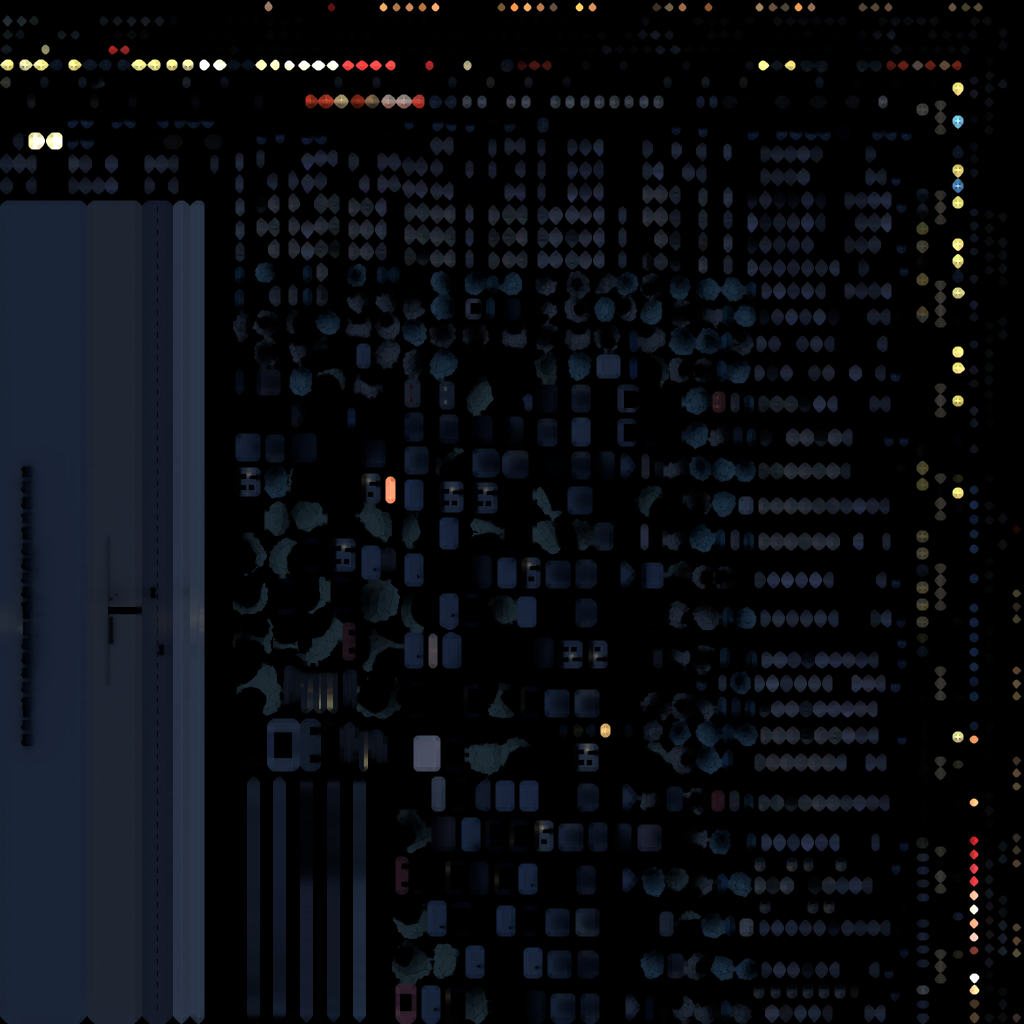
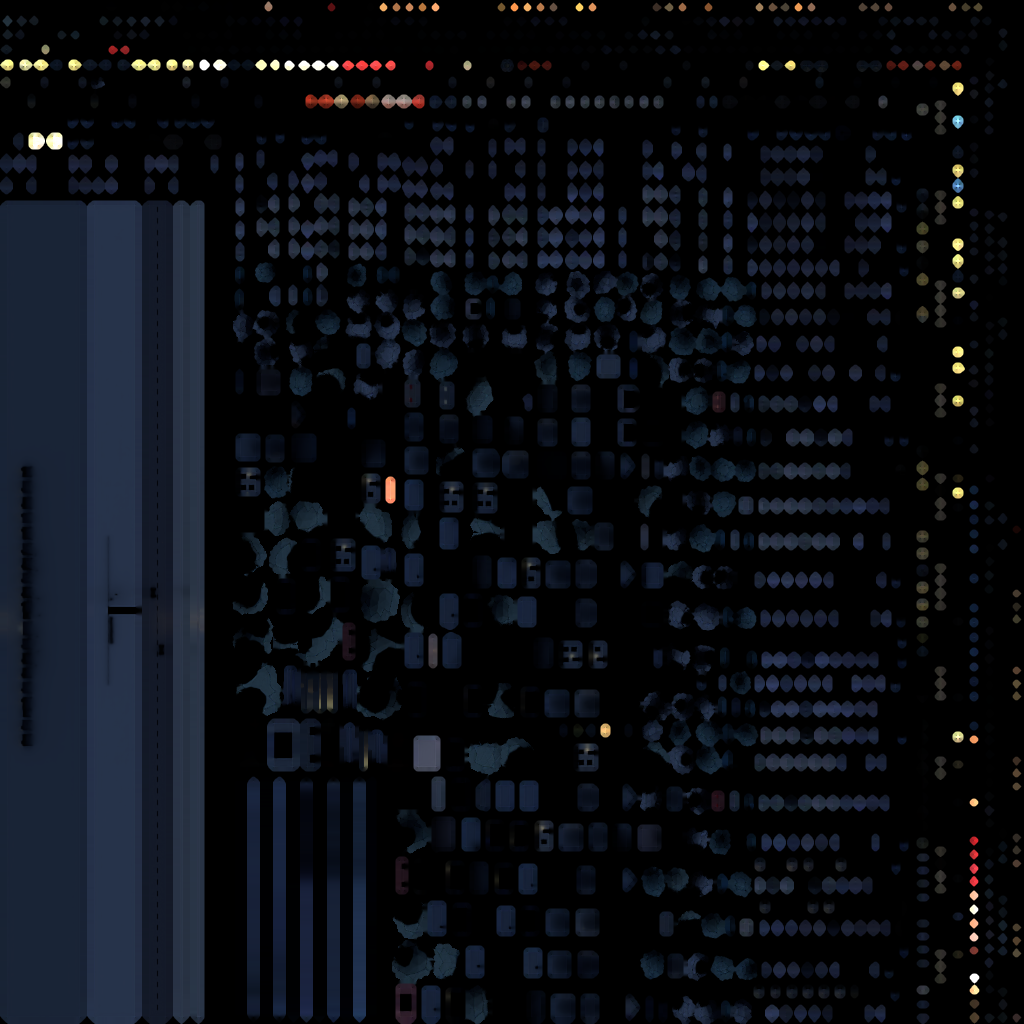
fix(view3d): a night sky behind the 3D street, and a lighter near layer
The portal draws black wherever the street has nothing, so the window read as near-black from
most poses. The street now carries its own sky: the flat views' night gradient on a wall just
behind the FLUX skyline, swung back at its ends for wide orbits, with stars. It lives in the cards
mesh and texture, so no draw or texture is added. The fence, hedge, tree and lawn are lifted
toward the far hills' colour, and our window's spill is stronger. The room's far plane goes to
500 to reach the sky. The preview renders on black with the app's far plane, so a gap shows.

Changed region(s): [[0.0625, 0.1875, 0.1562, 1.0], [0.2812, 0.9688, 0.3125, 1.0]]

diff --git a/packages/pet-scenes/reality/Tests/PetSceneRealityTests/Street3DTests.swift b/packages/pet-scenes/reality/Tests/PetSceneRealityTests/Street3DTests.swift
@@ -30,6 +30,25 @@ struct Street3DTests {
     #expect(lights == 0)
   }
 
+  @Test func theStreetHasASkyRightRoundWithinTheFarPlane() async throws {
+    let assets = try #require(await Street3D.assets())
+    // In the street's frame: x right, y up, minus z out through the window.
+    let sky = assets.cards.bounds
+    // It reaches well up and far out to either side, so any orbit looks into sky, not black.
+    #expect(sky.max.y >= 200)
+    #expect(sky.min.x <= -420 && sky.max.x >= 420)
+    #expect(sky.min.z <= -239)
+    // And what is seen of it up to a little above the horizon stays inside the room camera's far plane, with
+    // room for the camera standing back from the window.
+    let positions = assets.cards.contents.models.flatMap {
+      $0.parts.flatMap { $0.positions.elements }
+    }
+    let reach = positions.filter { $0.y <= 60 }.map {
+      simd_length(SIMD2($0.x, $0.z))
+    }
+    #expect(try #require(reach.max()) + 40 < GenzRoom.farClip)
+  }
+
   @Test func theStreetIsSeenStraightOnFromTheCameraAtHome() {
     let origin = SIMD3<Float>(3.8, 3.15, -0.35)
     let eye = SIMD3<Float>(10.2, 9.8, 19.2)

diff --git a/packages/pet-scenes/reality/Sources/PetSceneReality/Views/Street3D.swift b/packages/pet-scenes/reality/Sources/PetSceneReality/Views/Street3D.swift
@@ -7,8 +7,10 @@ import os
 /// that fills the window's opening, so it never shows past the walls.
 ///
 /// The street is made by `scripts/make_street_view.py`: one mesh of everything that stands still,
-/// one of a car, both on one baked atlas, and the far cards with the lamps' glows on a second
-/// texture. Everything is unlit, so it adds no real-time light: four draws with the portal.
+/// one of a car, both on one baked atlas, and the far cards with the lamps' glows, the stars and
+/// the night sky behind it all on a second texture. The portal draws nothing where the street has
+/// nothing, so the sky is the street's own. Everything is unlit, so it adds no real-time light:
+/// four draws with the portal.
 ///
 /// It is laid out in the view's own frame: x right, y up, and minus z out from the camera's home
 /// place through the window's middle, so at home it is seen straight on, as the flat views are,

diff --git a/packages/pet-scenes/reality/Sources/PetSceneReality/GenzRoom.swift b/packages/pet-scenes/reality/Sources/PetSceneReality/GenzRoom.swift
@@ -268,8 +268,9 @@ final class GenzRoom: CatPlayStage {
   /// at most about a hundred off in the opening at full zoom out, so a near plane this far out
   /// keeps the depth fine enough that the rug, shelves and note never shimmer against what they
   /// rest on. The default near plane of a centimetre left too little depth twenty units out.
+  /// The far plane reaches the 3D street's sky, some 450 units out through the window.
   static let nearClip: Float = 0.5
-  static let farClip: Float = 300
+  static let farClip: Float = 500
   private static let petLength = 4.0
   private static let parallaxPoints: CGFloat = 60
   private static let ambientExponent: Float = 1.6

diff --git a/packages/pet-scenes/reality/scripts/make_street_view.py b/packages/pet-scenes/reality/scripts/make_street_view.py
@@ -89,6 +89,11 @@ def mixed(a, b, share):
     return (c[0] << 16) | (c[1] << 8) | c[2]
 
 
+# The near layer (fence, hedge, tree, lawn), lifted part way to the far hills' colour: seen close
+# up from a near or high pose it fills the window, and at the flat view's near it read as black.
+NEAR = mixed(PAL["near"], PAL["far"], 0.45)
+
+
 # MARK: - Scene and materials
 
 bpy.ops.wm.read_factory_settings(use_empty=True)
@@ -319,7 +324,7 @@ WEIGHT = {"near": 1.0, "street": 0.8, "middle": 0.6, "ground": 0.3, "car": 1.2}
 
 def build_ground():
     g = Part("ground", "ground")
-    lawn = material("lawn", lit(PAL["near"], 0.06))
+    lawn = material("lawn", lit(NEAR, 0.06))
     far_lawn = material("far-lawn", lit(PAL["street"], 0.02))
     pave = material("pavement", lit(PAL["street"], 0.10))
     kerb = material("kerb", lit(PAL["street"], 0.16))
@@ -347,8 +352,8 @@ def build_ground():
 
 def build_near():
     p = Part("fence", "near")
-    wood = material("fence", lit(PAL["near"], 0.14))
-    rail = material("fence-rail", lit(PAL["near"], 0.08))
+    wood = material("fence", lit(NEAR, 0.14))
+    rail = material("fence-rail", lit(NEAR, 0.08))
     fy = 9.0
     for x0, x1 in [(-46, -2.2), (2.2, 46)]:
         x = x0
@@ -368,7 +373,7 @@ def build_near():
     p.done()
 
     h = Part("hedge", "near")
-    leaf = material("hedge", lit(PAL["near"], 0.05))
+    leaf = material("hedge", lit(NEAR, 0.05))
     for k in range(8):
         h.blob((4.6 + k * 2.1, 11.2, GROUND + 1.4), 1.6, leaf, squash=0.85, subdiv=2, seed=10 + k)
     h.blob((-7.0, 11.0, GROUND + 1.0), 1.3, leaf, squash=0.8, seed=31)
@@ -382,8 +387,8 @@ def build_near():
 
 def build_tree():
     t = Part("tree", "near")
-    bark = material("bark", lit(PAL["near"], 0.02))
-    canopy = material("canopy", mixed(lit(PAL["near"], 0.07), 0x0E2A2A, 0.35))
+    bark = material("bark", lit(NEAR, 0.02))
+    canopy = material("canopy", mixed(lit(NEAR, 0.07), 0x0E2A2A, 0.35))
     tx, ty = -10.0, 14.0
     t.cylinder(tx, ty, GROUND, GROUND + 7.0, 0.45, bark, sides=7, top=False)
     t.box(tx - 0.15, ty - 0.15, GROUND + 4.5, tx + 3.0, ty + 0.15, GROUND + 4.8, bark)
@@ -642,7 +647,7 @@ def lights():
     data.shape = "RECTANGLE"
     data.size, data.size_y = 6.4, 3.7
     data.color = srgb(PAL["lamp"])[:3]
-    data.energy = 900
+    data.energy = 1500
     obj = bpy.data.objects.new("our-window", data)
     obj.location = (0, 0.3, 0)
     obj.rotation_euler = (-math.pi / 2, 0, 0)
@@ -779,6 +784,14 @@ CARDS = [
     ("skyline", 230.0, GROUND - 2, 34.0),
 ]
 CARD_TEX = (4096, 1024)
+# The night sky behind everything: a gradient on a wall just behind the far card, swung back at
+# its ends so an orbit right round to the side still looks into sky. It stays within the room
+# camera's far plane (500) from every pose.
+SKY_DISTANCE = 240.0
+SKY_BOTTOM, SKY_TOP = GROUND - 55.0, 240.0
+# The wall's outline seen from above, from straight out to the side: (x, y).
+SKY_WALL = [(0.0, SKY_DISTANCE), (380.0, SKY_DISTANCE), (410.0, 140.0), (430.0, 0.0)]
+STARS = 110
 # How far round to either side of straight out a card reaches. Past it the card fades out into
 # the sky, which only the far ends of an orbit ever show.
 CARD_REACH = math.radians(58)
@@ -795,9 +808,11 @@ def card_layout():
         layout.append(dict(name=name, distance=distance, x0=x0, x1=x1, z0=bottom, z1=height,
                            px=[0, top, CARD_TEX[0], px_h]))
         top += px_h + 8
-    # A glow sprite and the far ground's fade share the last strip.
+    # A glow sprite, the far ground's fade, the sky's gradient and a star share the last strip.
     layout.append(dict(name="glow", px=[0, top, 128, 128]))
     layout.append(dict(name="ground", px=[136, top, 32, 128]))
+    layout.append(dict(name="sky", px=[176, top, 32, 128], z0=SKY_BOTTOM, z1=SKY_TOP))
+    layout.append(dict(name="star", px=[216, top, 32, 32]))
     assert top + 128 <= CARD_TEX[1], f"cards need {top + 128} px rows"
     return layout
 
@@ -819,6 +834,29 @@ def card_mesh(layout):
 
     # Drawn in this order, from the back, as one mesh: the transparent parts never hide what
     # stands behind them. The far ground runs from the end of the modelled ground to the far card.
+    sky = next(c for c in layout if c["name"] == "sky")
+    for side in (-1, 1):
+        for (ax, ay), (bx, by) in zip(SKY_WALL, SKY_WALL[1:]):
+            a, b = (ax * side, ay), (bx * side, by)
+            if side < 0:
+                a, b = b, a
+            quad([(a[0], a[1], sky["z1"]), (b[0], b[1], sky["z1"]), (b[0], b[1], sky["z0"]),
+                  (a[0], a[1], sky["z0"])],
+                 [uv_of(sky["px"], 0.5, 0.01), uv_of(sky["px"], 0.5, 0.01),
+                  uv_of(sky["px"], 0.5, 0.99), uv_of(sky["px"], 0.5, 0.99)])
+    # Stars on the sky's middle, in front of it and behind the far card, none in the far card's
+    # towers' way: they sit above its top.
+    star = next(c for c in layout if c["name"] == "star")
+    rng = random.Random(11)
+    top_of_far = max(c["z1"] for c in layout if c["name"] == "skyline")
+    for _ in range(STARS):
+        x = rng.uniform(-370, 370)
+        z = top_of_far + 4 + (SKY_TOP * 0.8 - top_of_far) * rng.random() ** 1.3
+        r = 0.45 + 0.9 * rng.random() ** 3
+        y = SKY_DISTANCE - 1.0
+        quad([(x - r, y, z + r), (x + r, y, z + r), (x + r, y, z - r), (x - r, y, z - r)],
+             [uv_of(star["px"], 0, 0), uv_of(star["px"], 1, 0), uv_of(star["px"], 1, 1),
+              uv_of(star["px"], 0, 1)])
     cards = sorted((c for c in layout if "distance" in c), key=lambda c: -c["distance"])
     ground = next(c for c in layout if c["name"] == "ground")
     far = cards[0]

diff --git a/packages/pet-scenes/reality/scripts/paint_street_cards.py b/packages/pet-scenes/reality/scripts/paint_street_cards.py
@@ -1,7 +1,8 @@
 """Paints the far cards of the 3D night street into one texture, in the flat views' night palette:
 the roofline of the next street over (with a few lit windows and its trees), then the far hills,
 the town at their foot, the city's towers with lit floors, the water tower and the radio mast.
-Also a glow sprite for the lamps and the far ground's fade to the horizon.
+Also a glow sprite for the lamps, the far ground's fade to the horizon, the night sky's gradient
+behind everything and a star.
 
 Reads the layout make_street_view.py wrote; each card is painted in its own world units, so a
 window is the same size on screen wherever its card stands.
@@ -34,6 +35,8 @@ SS = 2  # painted at twice the size, then halved, for smooth edges
 
 FAR, MIDDLE, HORIZON, STREET = 0x20365A, 0x14233D, 0x3A5A86, 0x0E1A2E
 LAMP, LAMP_CORE = 0xFFC36B, 0xFFE2B0
+# The flat views' night sky (ViewLook, night): its top, middle and horizon.
+SKY_TOP, SKY_MIDDLE = 0x070C18, 0x162846
 
 
 def rgb(h, a=255):
@@ -48,6 +51,18 @@ def mixed(a, b, t):
 
 def lit(h, s):
     return mixed(h, 0xFFFFFF if s >= 0 else 0x000000, abs(s))
+
+
+# The sky's colour by height in units, from the top of its wall to below the horizon, which sits
+# at the far card's foot as the flat view's does at its hills.
+SKY_STOPS = [
+    (240.0, SKY_TOP),
+    (110.0, mixed(SKY_TOP, SKY_MIDDLE, 0.55)),
+    (50.0, SKY_MIDDLE),
+    (12.0, mixed(SKY_MIDDLE, HORIZON, 0.6)),
+    (-5.0, HORIZON),
+    (-60.0, mixed(HORIZON, STREET, 0.6)),
+]
 
 
 class Card:
@@ -280,6 +295,35 @@ def ground(draw, px):
         draw.line([(x, y + j), (x + w, y + j)], fill=rgb(mixed(far, near, (j / h) ** 0.6)))
 
 
+def sky(draw, card):
+    """The sky's gradient down the strip: its rows run evenly from the wall's top to its foot."""
+    x, y, w, h = [v * SS for v in card["px"]]
+    z1, z0 = card["z1"], card["z0"]
+    for j in range(h):
+        z = z1 + (z0 - z1) * (j + 0.5) / h
+        for (za, ca), (zb, cb) in zip(SKY_STOPS, SKY_STOPS[1:]):
+            if zb <= z <= za:
+                t = (za - z) / (za - zb)
+                colour = mixed(ca, cb, t * t * (3 - 2 * t))
+                break
+        else:
+            colour = SKY_STOPS[0][1] if z > SKY_STOPS[0][0] else SKY_STOPS[-1][1]
+        draw.line([(x, y + j), (x + w - 1, y + j)], fill=rgb(colour))
+
+
+def star(image, px):
+    """A soft white point, as the flat view's stars are."""
+    x, y, w, h = [v * SS for v in px]
+    sprite = Image.new("RGBA", (w, h))
+    pixels = sprite.load()
+    for j in range(h):
+        for i in range(w):
+            d = math.hypot((i + 0.5) / w * 2 - 1, (j + 0.5) / h * 2 - 1)
+            a = max(0.0, 1 - d) ** 2.6
+            pixels[i, j] = (0xEE, 0xF2, 0xF7, int(255 * 0.9 * a))
+    image.alpha_composite(sprite, (x, y))
+
+
 def fade_edges(image):
     """Each card fades out over its outer tenth on either side, into the sky behind."""
     alpha = image.getchannel("A")
@@ -329,9 +373,13 @@ def main():
                 skyline(Card(draw, card))
         elif name == "ground":
             ground(draw, card["px"])
+        elif name == "sky":
+            sky(draw, card)
     for card in INFO["cards"]:
         if card["name"] == "glow":
             glow(image, card["px"])
+        elif card["name"] == "star":
+            star(image, card["px"])
     fade_edges(image)
     image = image.resize(SIZE, Image.LANCZOS)
     bleed(image).save(OUT / "street-cards.png", optimize=True)

diff --git a/packages/pet-scenes/reality/scripts/preview_street_view.py b/packages/pet-scenes/reality/scripts/preview_street_view.py
@@ -28,7 +28,8 @@ scene.view_settings.view_transform = "Standard"
 world = bpy.data.worlds.new("sky")
 scene.world = world
 world.use_nodes = True
-world.node_tree.nodes["Background"].inputs["Color"].default_value = (0.004, 0.012, 0.035, 1)
+# Black, as the portal is where nothing of the street is drawn, so a gap in the sky shows.
+world.node_tree.nodes["Background"].inputs["Color"].default_value = (0, 0, 0, 1)
 
 
 def scene_to_blender(v):
@@ -122,7 +123,8 @@ eye = target + 19.5 * ZOOM * Vector((flat * math.sin(YAW), math.sin(PITCH), flat
 cam_data = bpy.data.cameras.new("cam")
 cam_data.sensor_fit = "VERTICAL"
 cam_data.angle_y = math.radians(40)
-cam_data.clip_start, cam_data.clip_end = 0.5, 300
+# GenzRoom.nearClip and farClip.
+cam_data.clip_start, cam_data.clip_end = 0.5, 500
 cam = bpy.data.objects.new("cam", cam_data)
 scene.collection.objects.link(cam)
 cam.location = scene_to_blender(eye)
